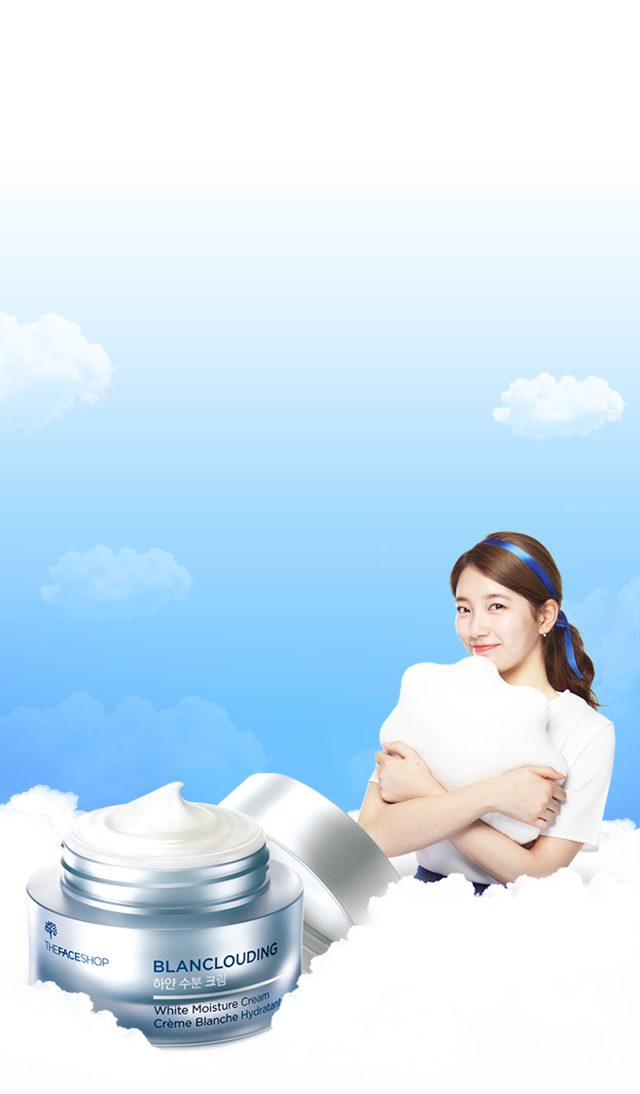
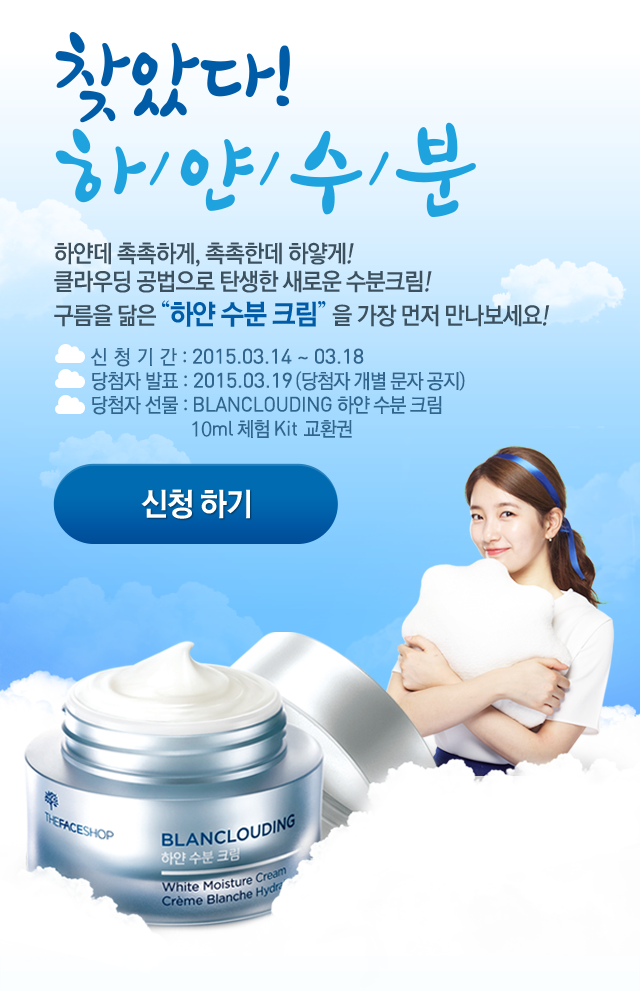
모바일 메인페이지 수정

diff --git a/MOBILE/css/style.css b/MOBILE/css/style.css
@@ -139,11 +139,14 @@ body {
 	background:url(../img/bg_main.png) top center ;
 	background-size: cover;
 	margin:5% 0 0;
+	
+}
+.contents_wrap .bg_cloud .event{
 }
 
 .contents_wrap .sns_area{
 	width:70%;
-	padding:0 0 6%;
+	padding:10% 0 10%;
 	padding-left:25%;
 }
 .contents_wrap .sns_area a,
@@ -158,22 +161,19 @@ body {
 	width:100%;
 }
 
-.contents_wrap .bg_cloud .event .title_event{
-	width:90%;
-	padding-top:40px;
-	padding-left:10%;
-}
-.contents_wrap .bg_cloud .event .title_event img{
-	width:85%;
+.contents_wrap .bg_cloud .event {
+	padding:75% 0 70%;
 }
 .contents_wrap .bg_cloud .event .btn_gift{
     width:90%;
-	padding:4% 0 55%;
-	padding-left:10%;
+	padding:0;
+	padding-left:8%;
 }
 .contents_wrap .bg_cloud .event .btn_gift a{
-    width:80%;
+    width:45%;
 	display:block;
+	text-indent:-999999999px;
+	padding:5%;
 }
 .contents_wrap .bg_cloud .event .btn_gift a img{
 	width:70%;

diff --git a/MOBILE/index.php b/MOBILE/index.php
@@ -41,36 +41,34 @@
       </div>
     <!--area1-->
 
+    <!--sns_area-->
+      <div class="sns_area clearfix">
+        <a href="#" onclick="sns_share('facebook');return false;">
+            <img src="img/btn_fb.png" alt=""/>
+        </a>
+        <span>
+            <img src="img/bar.png" alt=""/>
+        </span>
+        <a  id="kakao-link-btn" href="#" onclick="sns_share('kakao');return false;">
+            <img src="img/btn_kt.png" alt=""/>
+        </a>
+        <span>
+            <img src="img/bar.png" alt=""/>
+        </span>
+        <a href="#" onclick="sns_share('twitter');return false;">
+            <img src="img/btn_tw.png" alt=""/>
+        </a>
+      </div>
+    <!--sns_area-->
+
+
 
     <div class="bg_cloud">
-        <!--sns_area-->
-          <div class="sns_area clearfix">
-            <a href="#" onclick="sns_share('facebook');return false;">
-           		<img src="img/btn_fb.png" alt=""/>
-            </a>
-            <span>
-           		<img src="img/bar.png" alt=""/>
-            </span>
-            <a  id="kakao-link-btn" href="#" onclick="sns_share('kakao');return false;">
-           		<img src="img/btn_kt.png" alt=""/>
-            </a>
-            <span>
-           		<img src="img/bar.png" alt=""/>
-            </span>
-            <a href="#" onclick="sns_share('twitter');return false;">
-            	<img src="img/btn_tw.png" alt=""/>
-            </a>
-          </div>
-        <!--sns_area-->
-    
         <!--event-->
           <div class="event">
-          	<div class="title_event">
-	            <img src="img/title_event.png" alt=""/>
-            </div>
             <div class="btn_gift">
               <!-- <a href="#" data-mfp-src="#input_div" class="popup-with-zoom-anim" onclick="open_event()"><img src="img/btn_gift.png" alt=""/></a> -->
-              <a href="popup_input.php" target="_blank"><img src="img/btn_gift_event.png" alt=""/></a>
+              <a href="popup_input.php" target="_blank">신청하기</a>
             </div>
           </div>
         <!--event-->
